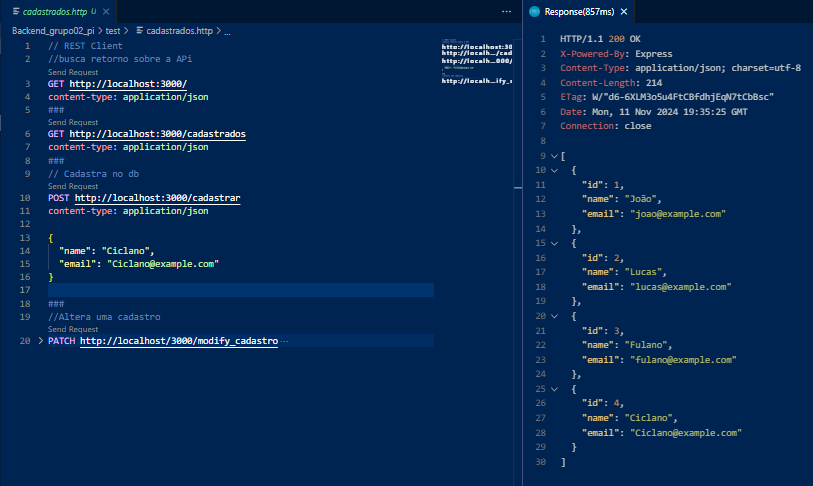
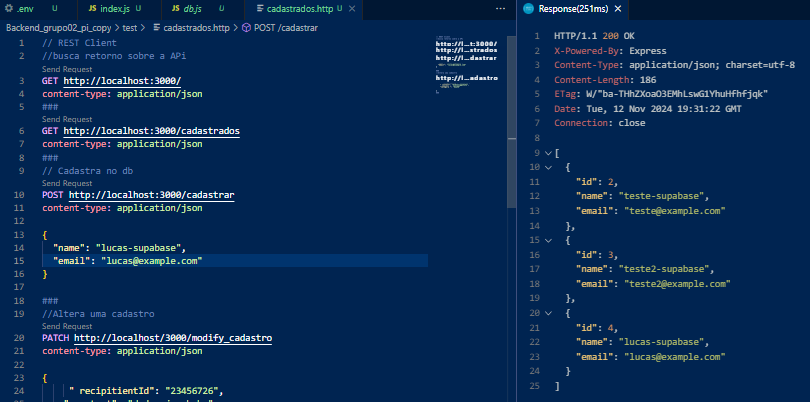
Concluído versão Api, p\ Produção

diff --git a/index.js b/index.js
@@ -1,7 +1,5 @@
-// const { createClient } = require('@supabase/supabase-js');
-// const supabase = require('./supabaseClient');
-
-
+const { createClient } = require('@supabase/supabase-js');
+const supabase = require('./supabaseClient');
 
 
 require("dotenv").config();
@@ -23,49 +21,115 @@ app.use(express.json());
 // module.exports = supabase;
 
 
-app.get("/", (req, res) => res.json({ message: "Funcionando!" }));
+app.get("/", (req, res) => res.json({ message: "Funcionando !" }));
 
-// Rota para obter dados de 'cadastrados'
+// Rota para obter dados de 'cadastrados' no Supabase
 app.get("/cadastrados", async (req, res) => {
   try {
-    const customers = await db.selectCustomers();
-    res.json(customers);
+    const { data, error } = await supabase
+      .from('cadastrados') // Certifique-se de que o nome da tabela esteja correto
+      .select('*');
+
+    if (error) {
+      throw error;
+    }
+
+    res.json(data);
   } catch (error) {
-    console.error("Erro ao buscar clientes:", error);
-    res.status(500).json({ message: "Erro ao buscar dados." });
+    console.error("Erro ao buscar clientes no Supabase:", error);
+    res.status(500).json({ message: "Erro ao buscar dados no Supabase." });
   }
 });
 
+
+// Rota para obter dados de 'cadastrados'-(usar localmente)
+// app.get("/cadastrados", async (req, res) => {
+//   try {
+//     const customers = await db.selectCustomers();
+//     res.json(customers);
+//   } catch (error) {
+//     console.error("Erro ao buscar clientes:", error);
+//     res.status(500).json({ message: "Erro ao buscar dados." });
+//   }
+// });
+
 // Rota para obter dados de 'cadastrados' no supabase
-// app.post('/cadastrar', async (req, res) => {
-//     const { name, email } = req.body;
-//     const { data, error } = await supabase
-//       .from('users')
-//       .insert([{ name, email }]);
-  
-//     if (error) {
-//       return res.status(400).json({ error: error.message });
-//     }
-  
-//     res.json(data);
-//   });
-  
-// Rota para adicionar um novo cliente
-app.post("/cadastrar", async (req, res) => {
-    const { name, email } = req.body;
+app.post('/cadastrar', async (req, res) => {
+  const { name, email } = req.body;
 
-    if (!name || !email) {
-        return res.status(400).json({ message: "Nome e e-mail são obrigatórios." });
+  try {
+    const { data, error } = await supabase
+      .from('cadastrados') // Certifique-se de que o nome da tabela esteja correto aqui
+      .insert([{ name, email }])
+      .select(); // Adiciona a seleção para retornar o registro inserido
+
+    if (error) {
+      return res.status(400).json({ error: error.message });
     }
 
-    try {
-        const newCustomer = await db.insertCustomer(name, email);
-        res.status(201).json(newCustomer);
-    } catch (error) {
-        console.error("Erro ao adicionar cliente:", error);
-        res.status(500).json({ message: "Erro ao adicionar cliente." });
-    }
+    res.json(data); // Retorna os dados inseridos
+  } catch (error) {
+    console.error("Erro ao inserir dados no Supabase:", error);
+    res.status(500).json({ message: "Erro ao inserir dados no Supabase." });
+  }
 });
 
+
+// Redefine a sequência antes de iniciar o servidor
+resetSequence().then(() => {
+  // Inicia o servidor
+  app.listen(port, () => console.log(`API funcionando na porta ${port}!`));
+});
+
+  
+// Rota para adicionar um novo cliente-(usar localmente)
+// app.post("/cadastrar", async (req, res) => {
+//     const { name, email } = req.body;
+
+//     if (!name || !email) {
+//         return res.status(400).json({ message: "Nome e e-mail são obrigatórios." });
+//     }
+
+//     try {
+//         const newCustomer = await db.insertCustomer(name, email);
+//         res.status(201).json(newCustomer);
+//     } catch (error) {
+//         console.error("Erro ao adicionar cliente:", error);
+//         res.status(500).json({ message: "Erro ao adicionar cliente." });
+//     }
+// });
+
 // Inicia o servidor
-app.listen(port, () => console.log(`API funcionando na porta ${port}!`));
+// app.listen(port, () => console.log(`API funcionando na porta ${port}!`));
+
+// Função para redefinir a sequência do ID
+async function resetSequence() {
+  try {
+    const { data: maxIdData, error: maxIdError } = await supabase
+      .from('cadastrados')
+      .select('id')
+      .order('id', { ascending: false })
+      .limit(1);
+
+    if (maxIdError) {
+      throw maxIdError;
+    }
+
+    const maxId = (maxIdData && maxIdData.length > 0) ? maxIdData[0].id : 1;
+
+    const { error: setvalError } = await supabase.rpc('setval_sequence', {
+      sequence_name: 'cadastrados_id_seq',
+      last_value: maxId
+    });
+
+    if (setvalError) {
+      throw setvalError;
+    }
+
+    console.log("Sequência redefinida com sucesso.");
+  } catch (error) {
+    console.error("Erro ao redefinir a sequência:", error);
+  }
+}
+
+

diff --git a/supabaseClient.js b/supabaseClient.js
@@ -1,0 +1,6 @@
+const { createClient } = require('@supabase/supabase-js');
+require("dotenv").config();
+
+const supabase = createClient(process.env.SUPABASE_URL, process.env.SUPABASE_KEY);
+
+module.exports = supabase;

diff --git a/readme.md b/readme.md
@@ -28,18 +28,20 @@ Esse projeto foi desenvolvido com as seguintes tecnologias:
 
 </p>
 
-Foi utilizado o banco de dados Postgres para armazenar os dados dos usuários cadastrados em ambiente local, para produção foi utilizado o banco de dados ás a service: [Supabase](https://supabase.com).
+Foi utilizado o banco de dados Postgres para armazenar os dados cadastrados em ambiente local, para produção foi utilizado o banco de dados ás a service: [Supabase](https://supabase.com).
+
 
 Requisitos para rodar o projeto localmente:
 
 [NodeJs](https://nodejs.org/en/download/package-manager)-v18.17.0, ou superior, [PgAdmin4](https://www.pgadmin.org/download/),
 Baixe este repositório e execute o comando abaixo para instalar as dependências do projeto.
 
-Baixe este repositório e execute o comando abaixo para instalar as dependências do projeto.
+Nesta versão o projeto esta configurado em sua versão fim, para produção, para rodar localmente, é necessário alterar as variáveis de ambiente no arquivo .env, para as configurações do banco de dados local, e **Atenção:** para fazer requisições no banco de dados local usando PgAdmin4, é necessário fazer alterações no código fonte.
+
+O proxímo passo é instalar as dependência do projeto, execute o comando abaixo:
 
 ```bash
 npm install 
-
 ```
 No arquivo .env.example, renomeie para .env e adicione as variáveis de ambiente conforme o exemplo abaixo:
 
@@ -53,6 +55,17 @@ Execute o backend localmente com o comando abaixo:
 ```bash
 node index.js
 ```	
+
+Caso queira rodar o projeto em ambiente de produção, é necessário alterar as variáveis de ambiente no arquivo .env, para as configurações do banco de dados Supabase, e criar função RPC no Supabase no SqlEditor do banco de dados no Supabase, execute o comando abaixo:
+
+```bash
+create or replace function setval_sequence(sequence_name text, last_value bigint)
+returns void as $$
+begin
+  execute 'select setval(' || quote_literal(sequence_name) || ', ' || last_value || ')';
+end;
+$$ language plpgsql;
+```
 
 
 Rotas da Api
